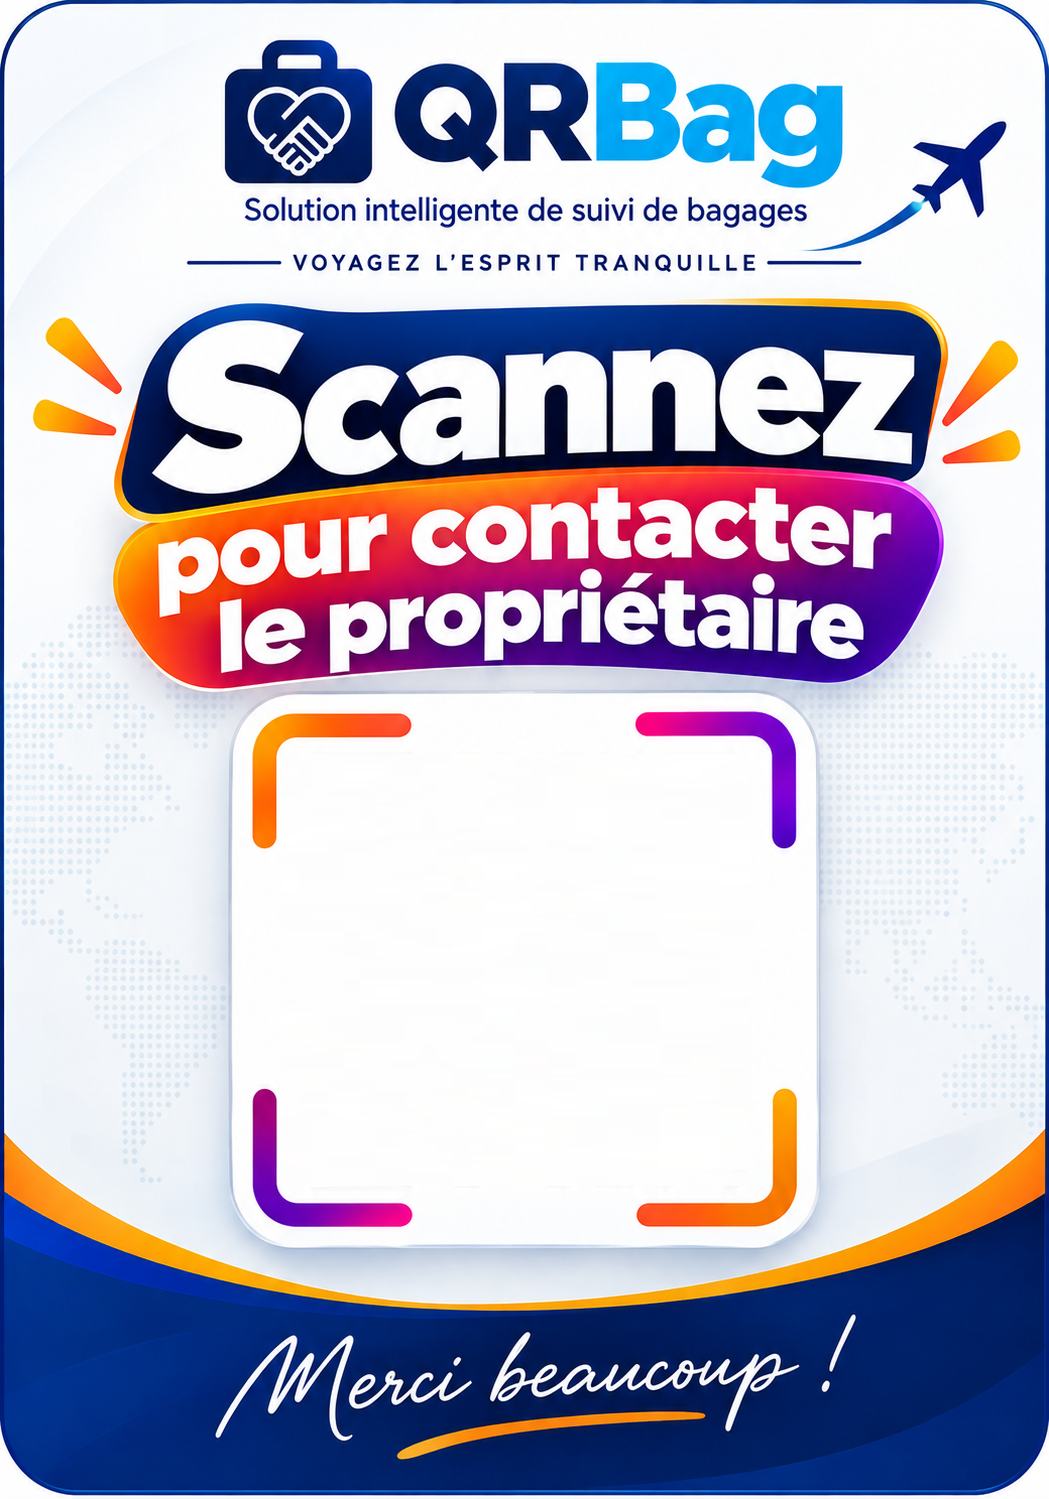
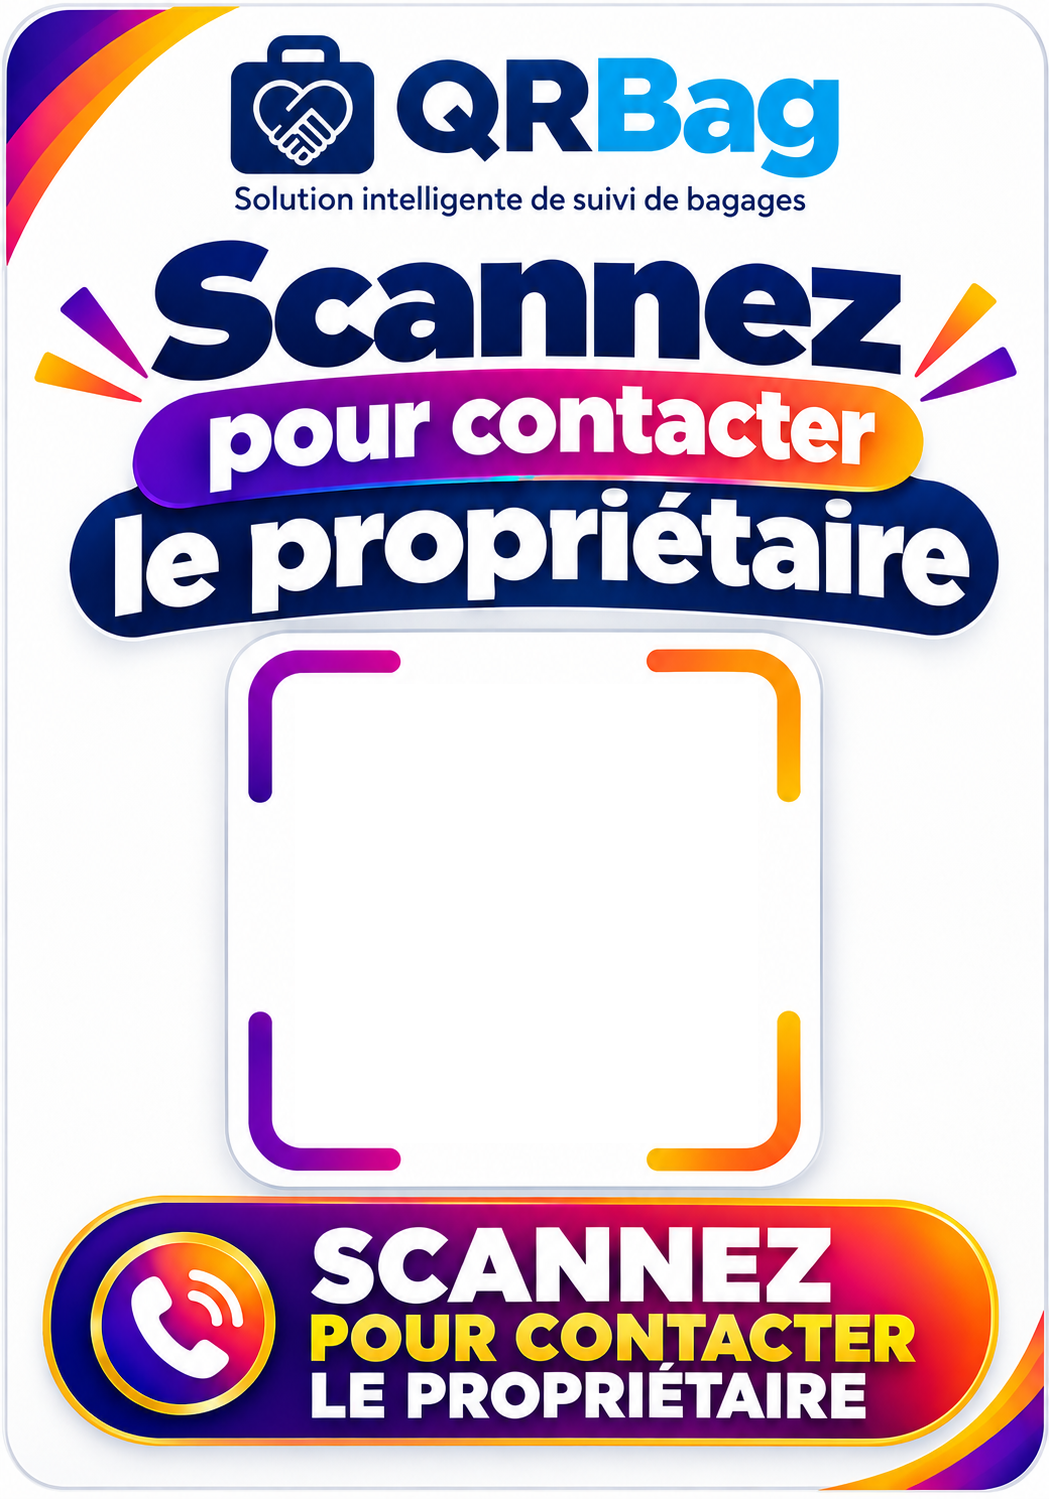
Design étiquette officiel 2025: artwork ori.png + QR dynamique scannable
- Nouveau template etiquette-qrbag-7x10.png (artwork fourni, pseudo-QR décoratif effacé)
- Nouvelle preview homepage avec vrai QR (https://qrbags.com)
- qr-label.ts: QR_RECT 312/705/420, QR noir pur, marges ≥25px des brackets
- Vérifié: PNG 381 DPI = 6.99×9.99cm, PDF 7.00×10.00cm, QR décodable

diff --git a/src/lib/qr-label.ts b/src/lib/qr-label.ts
@@ -15,7 +15,7 @@ import path from 'path';
  *   décoratifs, avec zone de silence (quiet zone) suffisante pour le scan
  */
 
-// ─── Géométrie du design (mesurée précisément sur etiquette-qrbag-7x10.png) ───
+// ─── Géométrie du design officiel 2025 (mesurée précisément sur l'artwork ori.png) ───
 const DESIGN_WIDTH = 1049;
 const DESIGN_HEIGHT = 1499;
 
@@ -23,15 +23,18 @@ const DESIGN_HEIGHT = 1499;
 // 1049 px / (70 mm / 25.4) = 380.87 DPI → imprime exactement 7 × 10 cm
 const DESIGN_DPI = DESIGN_WIDTH / (70 / 25.4); // ≈ 380.87
 
-// Zone QR mesurée : carré blanc x:233-820, y:695-1240 (centre 526.5, 967.5)
-// Coins décoratifs (viewfinder) à ne pas recouvrir :
-//   bras horizontaux y:715-740 (haut) / y:1195-1220 (bas)
-//   bras verticaux  x:250-275 (gauche) / x:774-799 (droite)
-// QR 420 px centré → x:317-737, y:758-1178 (marges ≥ 17 px de tous les coins)
-const QR_RECT = { left: 317, top: 758, size: 420 };
+// Zone QR mesurée : encadré blanc intérieur aux 4 coins décoratifs (viewfinder)
+//   bracket TL : coin (248,650), bras → x:398 / y:750, épaisseur ~26 px
+//   bracket TR : coin (775,650), bras → x:663 / y:801
+//   bracket BL : coin (248,1155), bras → y:1010
+//   bracket BR : coin (799,1155), bras → x:647 / y:1011
+// Zone sûre intérieure : x:275-770, y:680-1150 (495 × 470 px)
+// QR 420 px centré (522, 915) → x:312-732, y:705-1125 (marges ≥ 25 px +
+//   quiet zone du générateur ≈ 1 module → ~3 modules de silence au total)
+const QR_RECT = { left: 312, top: 705, size: 420 };
 
-// Couleur QR : navy de la marque, contraste ~13:1 sur blanc → scan optimal
-const QR_DARK_COLOR = '#16234e';
+// Couleur QR : noir pur (comme l'artwork officiel), contraste maximal → scan optimal
+const QR_DARK_COLOR = '#000000';
 
 // Format PDF : 7 cm × 10 cm en points PDF (1 pt = 1/72 pouce)
 const PDF_WIDTH_PT = 70 / 25.4 * 72;  // 198.42 pt

diff --git a/src/app/page.tsx b/src/app/page.tsx
@@ -548,7 +548,7 @@ function ChecklistCTASection() {
             <div className="relative">
               {/* Étiquette QR officielle en arrière-plan */}
               <div className="absolute -top-10 -right-4 sm:-right-8 w-32 sm:w-40 rotate-12 rounded-2xl overflow-hidden shadow-2xl shadow-[#16234e]/25 border-4 border-white z-0">
-                <Image src="/design/etiquette-qrbag-7x10.png" alt="Étiquette QR officielle QRBag" width={400} height={572} className="w-full h-auto" />
+                <Image src="/design/etiquette-qrbag-preview.png" alt="Étiquette QR officielle QRBag" width={400} height={572} className="w-full h-auto" />
               </div>
 
               {/* Mockup PDF */}
@@ -631,7 +631,7 @@ function QRBagEnActionSection() {
               <div className="absolute -inset-8 bg-[conic-gradient(from_90deg,#f8921f22,#e6216e18,#8b17c922,#2f9bff18,#f8921f22)] rounded-[3rem] blur-[60px]" aria-hidden />
               <CornerBrackets inset="-12px" size="w-12 h-12" border="border-[5px]" />
               <div className="relative w-64 sm:w-72 rounded-3xl overflow-hidden shadow-2xl shadow-[#16234e]/25 border-[6px] border-white -rotate-2 hover:rotate-0 transition-transform duration-500">
-                <Image src="/design/etiquette-qrbag-7x10.png" alt="Étiquette QR officielle QRBag 7×10 cm" width={600} height={858} className="w-full h-auto" />
+                <Image src="/design/etiquette-qrbag-preview.png" alt="Étiquette QR officielle QRBag 7×10 cm" width={600} height={858} className="w-full h-auto" />
               </div>
               <motion.div
                 className="absolute -bottom-5 -left-2 sm:left-4 bg-white text-[#16234e] px-5 py-3 rounded-2xl shadow-xl shadow-[#16234e]/15 border border-slate-100 font-bold text-sm flex items-center gap-2.5"

diff --git a/worklog.md b/worklog.md
@@ -470,3 +470,24 @@ Stage Summary:
 - Checklist + formulaire de recherche conservés, section transports supprimée
 - Toutes les pages existantes toujours accessibles (nav + footer)
 - Fichiers modifiés : src/app/page.tsx, src/components/home/TrackingWidget.tsx, src/app/globals.css
+
+---
+Task ID: qr-image-replace
+Agent: Main Orchestrator
+Task: Remplacer l'image QR du design d'étiquette par la version officielle fournie (ori.png)
+
+Work Log:
+- Analysé upload/ori.png (1049×1499 RGB) : nouvelle official artwork « Scannez pour contacter le propriétaire » avec QRBag logo, bannière bas dégradée, brackets violets/orange
+- Découvert que le QR intégré dans ori.png est un pseudo-QR décoratif NON décodable (jsQR échoue) → doit être remplacé par un QR dynamique
+- Mesuré la géométrie précise par scans de lignes : QR placeholder bbox x:307-745, y:694-1130 ; brackets intérieurs zone sûre x:275-770, y:680-1150 ; centre optimal (522, 915)
+- Régénéré public/design/etiquette-qrbag-7x10.png = ori.png avec le pseudo-QR effacé (rect blanc x:295,y:684,463×459), brackets intacts
+- Créé public/design/etiquette-qrbag-preview.png = même design avec un VRAI QR scannable (https://qrbags.com) composé à x:312,y:705 (420px)
+- Mis à jour src/lib/qr-label.ts : QR_RECT {left:312, top:705, size:420}, QR_DARK_COLOR #000000 (noir pur comme l'official artwork), commentaires géométrie réécrits
+- Mis à jour src/app/page.tsx (2 emplacements) : les visuels homepage utilisent etiquette-qrbag-preview.png (QR réel visible)
+- jsqr@1.4.0 installé temporairement pour vérification puis retiré
+
+Stage Summary:
+- Vérifications bout en bout : PNG étiquette 1049×1499 @ 381 DPI → 6.99×9.99 cm EXACT ; QR décodé = scan URL correct ; PDF page 198.43×283.46 pt = 7.00×10.00 cm EXACT ; preview QR décode https://qrbags.com
+- API HTTP validée : /api/admin/baggages/label/VOL26-3UZRED?format=png|pdf → 200, fichiers conformes (452 Ko / 304 Ko)
+- Browser check : les 2 emplacements homepage (section checklist + Comment ça marche) affichent le nouveau design officiel ; responsive mobile OK ; lint 0 erreur
+- L'étiquette imprimée générée est visuellement IDENTIQUE à l'artwork fourni avec un QR réellement scannable
